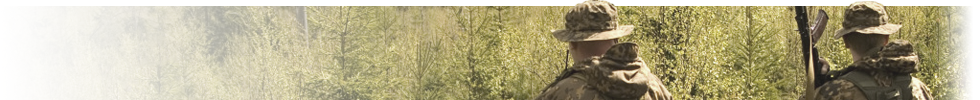
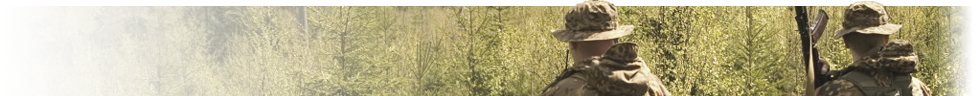
Tweaked header illustration

diff --git a/theme/stylesheet.css b/theme/stylesheet.css
@@ -128,7 +128,7 @@ p.right {
 
 #illustration {
   background: url("{T_THEME_PATH}/images/illustration.png") top right no-repeat;
-  height: 100px;
+  height: 96px;
   margin: -6px auto 0;
 }
 
@@ -215,7 +215,7 @@ p.right {
 /* Site name and description
 --------------------------------------------- */
 #site-description {
-  margin-top: 30px;
+  margin-top: 24px;
   margin-left: 20px;
   position: absolute;
 }
